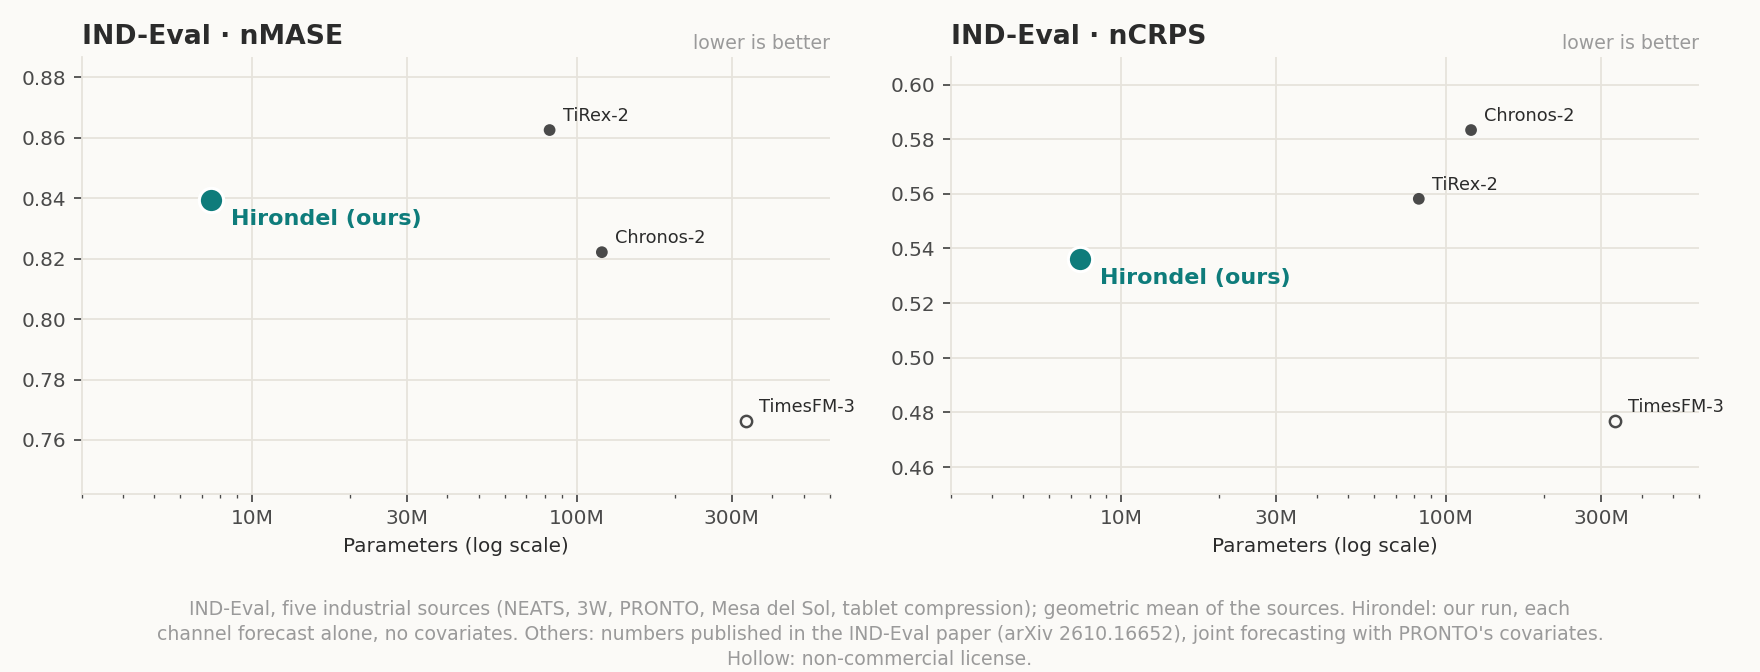
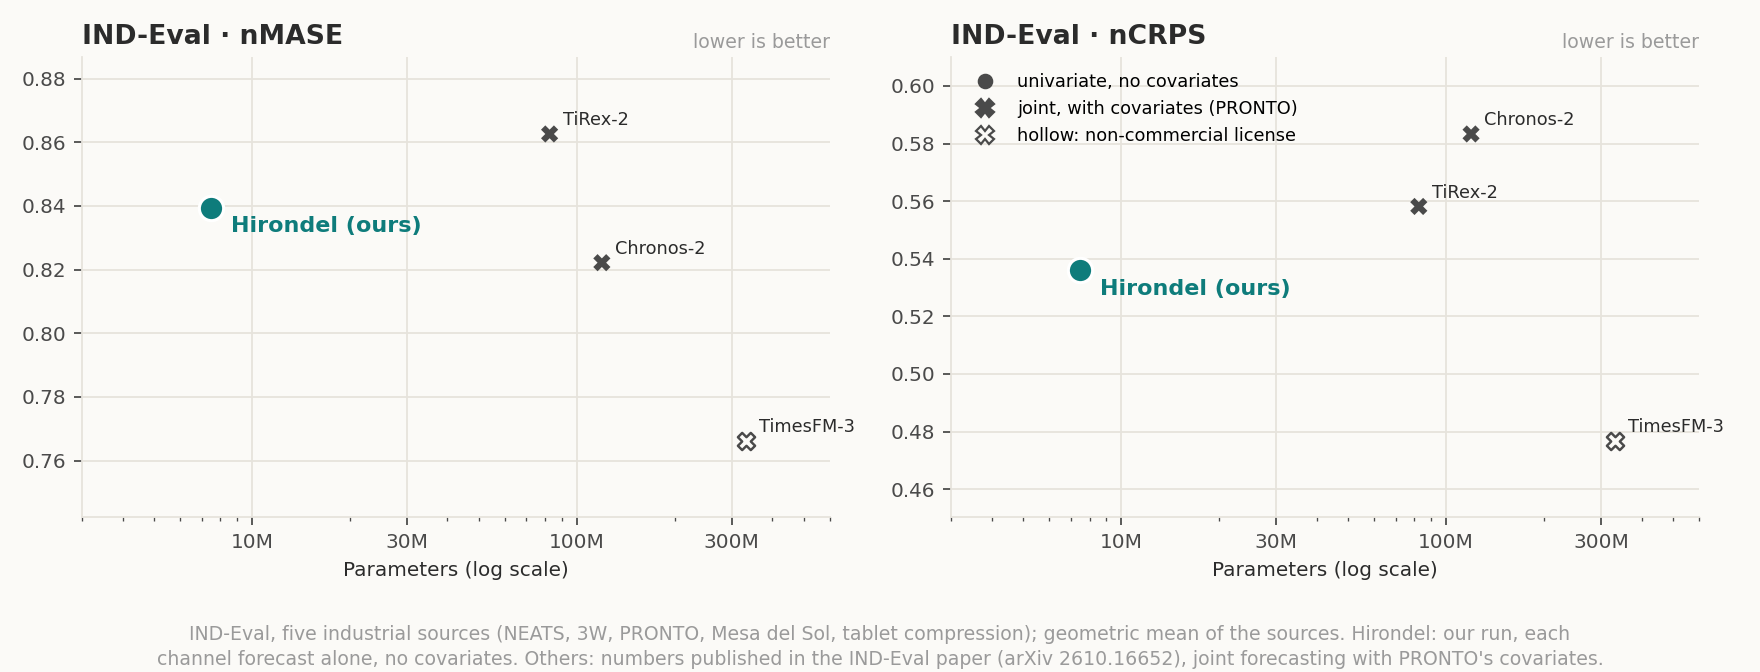
IND-Eval: cross = joint forecasting with covariates, circle = univariate; why Hirondel trails on PRONTO

diff --git a/showcase/render.py b/showcase/render.py
@@ -332,10 +332,11 @@ def _gmean(x):
 def indeval_rows(pub, ours, name):
     """One row per model: per-source (nMASE, nCRPS) and their geometric mean over the five sources. Ours first."""
     src = pub["sources"]
-    rows = [{"model": name, "params": ours.get("params"), "permissive": True, "ours": True,
+    rows = [{"model": name, "params": ours.get("params"), "permissive": True, "ours": True, "covariates": False,
              "per_source": {s: tuple(ours["per_source"][s]) for s in src}}]
     for m in pub["models"]:
         rows.append({"model": m["name"], "params": m["params"], "permissive": m["permissive"], "ours": False,
+                     "covariates": m.get("covariates", False),
                      "per_source": {s: (m["nmase"][s], m["ncrps"][s]) for s in src}})
     for r in rows:
         r["mean"] = (_gmean([r["per_source"][s][0] for s in src]), _gmean([r["per_source"][s][1] for s in src]))
@@ -369,8 +370,7 @@ def indeval_table(rows, pub):
 
 INDEVAL_NOTE = ("IND-Eval, five industrial sources (NEATS, 3W, PRONTO, Mesa del Sol, tablet compression); geometric mean of "
                 "the sources. {name}: our run, each channel forecast alone, no covariates. Others: numbers published in "
-                "the IND-Eval paper (arXiv 2610.16652), joint forecasting with PRONTO's covariates. Hollow: non-commercial "
-                "license.")
+                "the IND-Eval paper (arXiv 2610.16652), joint forecasting with PRONTO's covariates.")
 
 
 def indeval_figure(rows, path):
@@ -383,12 +383,13 @@ def indeval_figure(rows, path):
     for ax, k, metric in zip(axes, (0, 1), ("nMASE", "nCRPS")):
         for r in rows:
             x, y = r["params"], r["mean"][k]
+            marker = "X" if r["covariates"] else "o"             # cross: reads covariates; circle: univariate
             if r["ours"]:
-                ax.scatter([x], [y], s=120, color=ACCENT, zorder=4, edgecolors="white", linewidths=1.4)
+                ax.scatter([x], [y], s=120, marker=marker, color=ACCENT, zorder=4, edgecolors="white", linewidths=1.4)
             elif r["permissive"]:
-                ax.scatter([x], [y], s=28, color=DARK, zorder=4, edgecolors="none")
+                ax.scatter([x], [y], s=60, marker=marker, color=DARK, zorder=4, edgecolors="none")
             else:
-                ax.scatter([x], [y], s=26, facecolors=BG, edgecolors=DARK, linewidths=1.1, zorder=4)
+                ax.scatter([x], [y], s=60, marker=marker, facecolors=BG, edgecolors=DARK, linewidths=1.1, zorder=4)
             ax.annotate(f"{r['model']} (ours)" if r["ours"] else r["model"], (x, y),
                         xytext=(9, -4) if r["ours"] else (6, 4), textcoords="offset points", va="top" if r["ours"] else "baseline",
                         fontsize=10 if r["ours"] else 8, fontweight="bold" if r["ours"] else "normal",
@@ -399,6 +400,14 @@ def indeval_figure(rows, path):
         ax.set_xticks([1e7, 3e7, 1e8, 3e8])
         ax.set_xticklabels(["10M", "30M", "100M", "300M"])
         ax.set_title(f"IND-Eval · {metric}", loc="left", fontsize=12, fontweight="bold", color=INK)
+        if k == 1:                                        # nCRPS panel: its upper left corner is empty
+            from matplotlib.lines import Line2D
+            ax.legend(handles=[Line2D([], [], ls="", marker="o", color=DARK, label="univariate, no covariates"),
+                               Line2D([], [], ls="", marker="X", color=DARK, markersize=8,
+                                      label="joint, with covariates (PRONTO)"),
+                               Line2D([], [], ls="", marker="X", markerfacecolor=BG, markeredgecolor=DARK, markersize=8,
+                                      label="hollow: non-commercial license")],
+                      loc="upper left", fontsize=8, frameon=False)
         ax.text(1.0, 1.02, "lower is better", transform=ax.transAxes, ha="right", fontsize=8.5, color=GREY)
         ax.set_xlabel("Parameters (log scale)")
     note = INDEVAL_NOTE.format(name=next(r["model"] for r in rows if r["ours"]))

diff --git a/README.md b/README.md
@@ -72,6 +72,10 @@ nMASE / nCRPS (normalised by Seasonal Naive; lower is better), best of each metr
 | Tablet compression (pharmaceutical) | 0.737 / 0.325 | 0.744 / 0.324 | 0.736 / 0.321 | **0.729** / **0.318** |
 | **Geometric mean, 5 sources** | 0.839 / 0.536 | 0.822 / 0.583 | 0.863 / 0.558 | **0.766** / **0.477** |
 
+Hirondel loses ground mainly on PRONTO, a process driven by control signals: the other models read these signals as
+covariates, Hirondel, being univariate, does not, so it cannot anticipate the changes they cause. On the four other
+sources it is within 5 % of the best model or ahead of it, with 11 to 47 times fewer parameters.
+
 Hirondel's numbers are our run of `benchmarks/indeval.py` on the published data (`benchmarks/results/indeval/`); our
 Seasonal Naive normalisation matches the paper's to a few thousandths, not bit for bit. IND-Eval has no leaderboard. The
 five sources are those not already in GIFT-Eval or TIME (the paper also averages MetroPT-3, ETT, Electricity and Solar).

diff --git a/showcase/README.template.md b/showcase/README.template.md
@@ -46,6 +46,10 @@ nMASE / nCRPS (normalised by Seasonal Naive; lower is better), best of each metr
 
 <!-- gen:indeval -->
 
+Hirondel loses ground mainly on PRONTO, a process driven by control signals: the other models read these signals as
+covariates, Hirondel, being univariate, does not, so it cannot anticipate the changes they cause. On the four other
+sources it is within 5 % of the best model or ahead of it, with 11 to 47 times fewer parameters.
+
 Hirondel's numbers are our run of `benchmarks/indeval.py` on the published data (`benchmarks/results/indeval/`); our
 Seasonal Naive normalisation matches the paper's to a few thousandths, not bit for bit. IND-Eval has no leaderboard. The
 five sources are those not already in GIFT-Eval or TIME (the paper also averages MetroPT-3, ETT, Electricity and Solar).

diff --git a/MODEL_CARD.md b/MODEL_CARD.md
@@ -87,6 +87,10 @@ covariates). nMASE / nCRPS, lower is better:
 | Tablet compression (pharmaceutical) | 0.737 / 0.325 | 0.744 / 0.324 | 0.736 / 0.321 | **0.729** / **0.318** |
 | **Geometric mean, 5 sources** | 0.839 / 0.536 | 0.822 / 0.583 | 0.863 / 0.558 | **0.766** / **0.477** |
 
+Hirondel loses ground mainly on PRONTO, a process driven by control signals: the other models read these signals as
+covariates, Hirondel, being univariate, does not, so it cannot anticipate the changes they cause. On the four other
+sources it is within 5 % of the best model or ahead of it, with 11 to 47 times fewer parameters.
+
 ![Accuracy against size, official leaderboards](showcase/figures/pareto.png)
 
 Official leaderboards, read on 2026-10-23 (some models use covariates or joint multivariate forecasting there).

diff --git a/showcase/MODEL_CARD.template.md b/showcase/MODEL_CARD.template.md
@@ -61,6 +61,10 @@ covariates). nMASE / nCRPS, lower is better:
 
 <!-- gen:indeval -->
 
+Hirondel loses ground mainly on PRONTO, a process driven by control signals: the other models read these signals as
+covariates, Hirondel, being univariate, does not, so it cannot anticipate the changes they cause. On the four other
+sources it is within 5 % of the best model or ahead of it, with 11 to 47 times fewer parameters.
+
 ![Accuracy against size, official leaderboards](showcase/figures/pareto.png)
 
 Official leaderboards, read on 2026-10-23 (some models use covariates or joint multivariate forecasting there).
